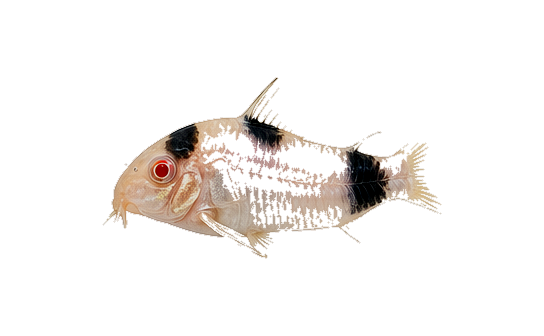
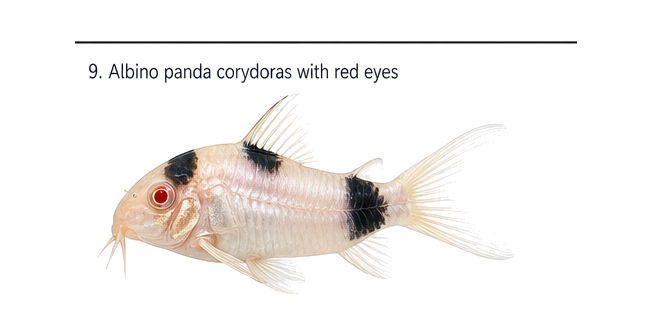
style: process newly reported white fish species and regenerate grass shrimp on solid white background

Changed region(s): [[0.125, 0.1791, 0.8125, 0.8657], [0.0938, 0.1194, 0.9062, 0.1493], [0.7188, 0.7463, 0.7812, 0.7761]]

diff --git a/output/image_quality/species_image_quality_audit.html b/output/image_quality/species_image_quality_audit.html
@@ -28,9 +28,9 @@
   <p class="muted">用于检查 App 实际展示图片是否存在缺失、主体贴边、透明抠图过碎、主体过小等问题。页面缩略图全部使用 object-fit: contain 和安全内边距预览，不会在审核表里二次裁切。</p>
   <div class="summary">
     <span class="pill">总数：486</span>
-    <span class="pill">需复查：1</span>
+    <span class="pill">需复查：2</span>
     <span class="pill">高优先级：0</span>
-    <span class="pill">裁切/边缘风险：11</span>
+    <span class="pill">裁切/边缘风险：12</span>
     <span class="pill">缺失文件：0</span>
   </div>
   <table>
@@ -658,13 +658,13 @@
           </tr>
         
           <tr class="ok">
-            <td><img src="../../public/species-transparent/batch_007_species_sheet_04_红眼灯_Moenkhausia_sanctaefilomenae.png" alt="红眼灯" loading="lazy" /></td>
+            <td><img src="../../public/species-image-overrides/sp_0062.png" alt="红眼灯" loading="lazy" /></td>
             <td><strong>红眼灯</strong><br><span>Moenkhausia sanctaefilomenae</span><br><code>sp_0062</code></td>
             <td>灯科鱼</td>
-            <td><b>yes</b><br><span>边距 64px</span><br><span>105,84,329,149</span></td>
-            <td>0.1379 / 0.4721<br><span>主体完整度 0.9942</span><br><span>亮度/色差 150.0 / 38.8</span></td>
+            <td><b>yes</b><br><span>边距 39px</span><br><span>75,39,502,258</span></td>
+            <td>0.1807 / 0.3092<br><span>主体完整度 0.8897</span><br><span>亮度/色差 172.2 / 13.8</span></td>
             <td><b>ok</b><br><span></span></td>
-            <td><code>/species-transparent/batch_007_species_sheet_04_红眼灯_Moenkhausia_sanctaefilomenae.png?v=cutfix5_20260601</code></td>
+            <td><code>/species-image-overrides/sp_0062.png?v=visibility_20260611</code></td>
           </tr>
         
           <tr class="ok">
@@ -2351,8 +2351,8 @@
             <td><img src="../../public/species-image-overrides/sp_0231.png" alt="红眼白子熊猫鼠" loading="lazy" /></td>
             <td><strong>红眼白子熊猫鼠</strong><br><span>Corydoras panda var. Albino</span><br><code>sp_0231</code></td>
             <td>鲶鱼/异型</td>
-            <td><b>yes</b><br><span>边距 77px</span><br><span>102,77,340,182</span></td>
-            <td>0.1255 / 0.3708<br><span>主体完整度 0.9865</span><br><span>亮度/色差 153.2 / 41.8</span></td>
+            <td><b>yes</b><br><span>边距 41px</span><br><span>75,41,502,253</span></td>
+            <td>0.1778 / 0.3057<br><span>主体完整度 0.8908</span><br><span>亮度/色差 186.0 / 28.4</span></td>
             <td><b>ok</b><br><span></span></td>
             <td><code>/species-image-overrides/sp_0231.png?v=visibility_20260611</code></td>
           </tr>
@@ -3658,13 +3658,13 @@
           </tr>
         
           <tr class="ok">
-            <td><img src="../../public/species-transparent/morph_batch_010_sheet_09_黄金灯_Hemigrammus_rodwayi.png" alt="黄金灯" loading="lazy" /></td>
+            <td><img src="../../public/species-image-overrides/sp_0362.png" alt="黄金灯" loading="lazy" /></td>
             <td><strong>黄金灯</strong><br><span>Hemigrammus rodwayi</span><br><code>sp_0362</code></td>
             <td>灯科鱼</td>
-            <td><b>yes</b><br><span>边距 66px</span><br><span>66,79,377,144</span></td>
-            <td>0.1636 / 0.5251<br><span>主体完整度 0.9977</span><br><span>亮度/色差 167.0 / 65.3</span></td>
+            <td><b>yes</b><br><span>边距 39px</span><br><span>75,39,502,245</span></td>
+            <td>0.1816 / 0.3254<br><span>主体完整度 0.8780</span><br><span>亮度/色差 175.1 / 48.3</span></td>
             <td><b>ok</b><br><span></span></td>
-            <td><code>/species-transparent/morph_batch_010_sheet_09_黄金灯_Hemigrammus_rodwayi.png?v=cutfix5_20260601</code></td>
+            <td><code>/species-image-overrides/sp_0362.png?v=visibility_20260611</code></td>
           </tr>
         
           <tr class="ok">
@@ -4177,13 +4177,13 @@
             <td><code>/species-transparent/morph_batch_019_sheet_08_黄金眼镜蛇蛇鱼_长鳍_Pangio_kuhlii_var._Longfin.png?v=cutfix5_20260601</code></td>
           </tr>
         
-          <tr class="ok">
+          <tr class="warn">
             <td><img src="../../public/species-image-overrides/sp_0414.png" alt="白金黑帝魔 (长鳍)" loading="lazy" /></td>
             <td><strong>白金黑帝魔 (长鳍)</strong><br><span>Geophagus sp. var. Longfin Platinum</span><br><code>sp_0414</code></td>
             <td>慈鲷/斗鱼</td>
-            <td><b>yes</b><br><span>边距 32px</span><br><span>57,32,354,201</span></td>
-            <td>0.1474 / 0.2569<br><span>主体完整度 0.8941</span><br><span>亮度/色差 167.1 / 30.7</span></td>
-            <td><b>ok</b><br><span></span></td>
+            <td><b>review</b><br><span>边距 46px</span><br><span>75,46,502,289</span></td>
+            <td>0.2310 / 0.3955<br><span>主体完整度 0.9243</span><br><span>亮度/色差 209.0 / 13.4</span></td>
+            <td><b>low_contrast_light_subject</b><br><span>浅色主体在白底上对比不足，App 中可能看起来像身体被抠掉</span></td>
             <td><code>/species-image-overrides/sp_0414.png?v=visibility_20260611</code></td>
           </tr>
         
@@ -4631,8 +4631,8 @@
             <td><img src="../../public/species-image-overrides/sp_0459.png" alt="黑壳虾" loading="lazy" /></td>
             <td><strong>黑壳虾</strong><br><span>Neocaridina davidi wild type</span><br><code>sp_0459</code></td>
             <td>虾螺蟹</td>
-            <td><b>yes</b><br><span>边距 154px</span><br><span>154,154,1024,1024</span></td>
-            <td>0.5636 / 0.9536<br><span>主体完整度 0.9998</span><br><span>亮度/色差 119.6 / 6.0</span></td>
+            <td><b>yes</b><br><span>边距 149px</span><br><span>149,262,994,489</span></td>
+            <td>0.0806 / 0.2198<br><span>主体完整度 0.9997</span><br><span>亮度/色差 147.3 / 47.7</span></td>
             <td><b>ok</b><br><span></span></td>
             <td><code>/species-image-overrides/sp_0459.png?v=visibility_20260611</code></td>
           </tr>

diff --git a/src/lib/speciesVisual.ts b/src/lib/speciesVisual.ts
@@ -15,6 +15,7 @@ const displayImageOverrides: Record<string, string> = {
 };
 
 const visibilityOverrideIds = new Set([
+  'sp_0062',
   'sp_0117',
   'sp_0132',
   'sp_0146',
@@ -55,6 +56,7 @@ const visibilityOverrideIds = new Set([
   'sp_0341',
   'sp_0358',
   'sp_0360',
+  'sp_0362',
   'sp_0375',
   'sp_0377',
   'sp_0378',

diff --git a/scripts/audit_species_images.py b/scripts/audit_species_images.py
@@ -34,6 +34,7 @@ ENCYCLOPEDIA_DISPLAY_IMAGE_OVERRIDES = {
 }
 
 VISIBILITY_IMAGE_OVERRIDE_IDS = {
+    "sp_0062",
     "sp_0117",
     "sp_0132",
     "sp_0146",
@@ -74,6 +75,7 @@ VISIBILITY_IMAGE_OVERRIDE_IDS = {
     "sp_0341",
     "sp_0358",
     "sp_0360",
+    "sp_0362",
     "sp_0375",
     "sp_0377",
     "sp_0378",